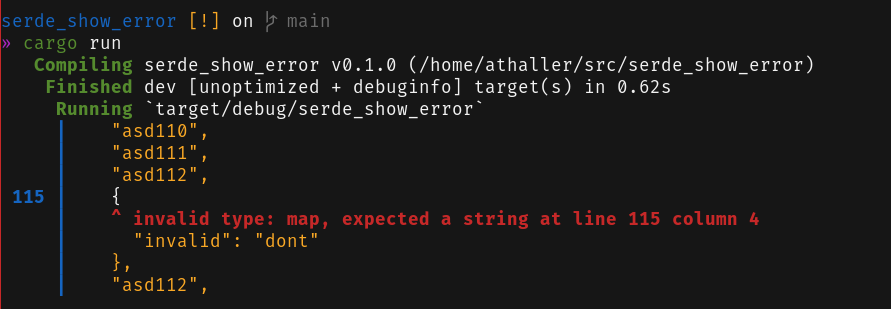
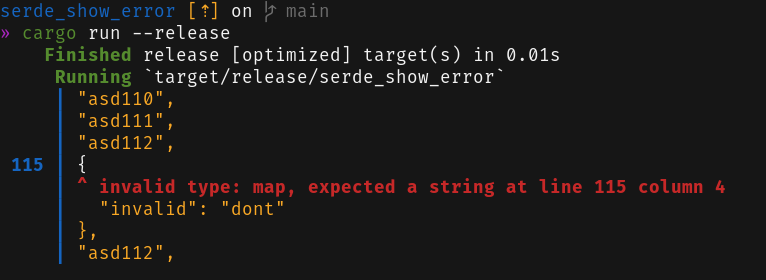
Use prettytable

Changed region(s): [[0.0, 0.0, 0.9608, 0.9429]]

diff --git a/src/main.rs b/src/main.rs
@@ -1,4 +1,10 @@
 use colored::*;
+use prettytable::{
+    cell,
+    format::FormatBuilder,
+    row,
+    Table,
+};
 
 mod config;
 
@@ -23,62 +29,76 @@ fn print_err(json_str: &str, err: serde_json::Error) -> Result<(), anyhow::Error
         return Err(err.into());
     }
 
-    let lines = json_str.lines().collect::<Vec<_>>();
-    let length = lines.len();
-    let fill = number_length(length);
+    // Amount of lines to show before and after the error line
+    let context = 3;
 
-    let skip = usize::saturating_sub(err.line(), 4);
-    let mut after = err.line() + 3;
-    if after > length {
-        after = length
-    }
+    // Skip until we are amount of context lines before the error line (context)
+    // plus the line with the error ( + 1)
+    // Saturating sub if the error is in the first line we can't take more context
+    let skip = usize::saturating_sub(err.line(), context + 1);
 
-    for (index, line) in lines.into_iter().enumerate().skip(skip) {
-        if index == after {
-            break;
-        }
+    // Take lines before and after (context * 2) plus the line with the error ( + 1)
+    let take = context * 2 + 1;
 
-        if index == err.line() - 1 {
-            println!(
-                " {}{: >fill$} {}{}",
-                err.line().to_string().blue().bold(),
-                "",
-                "|".blue().bold(),
-                line,
-                fill = fill - number_length(index)
-            );
+    // To reduce the amount of space text takes we want to remove unneccessary
+    // whitespace in front of the text.
+    // Find the line with the least amount of whitespace in front and use
+    // that to remove the whitespaces later.
+    // We basically want to find the least indented line.
+    // We cant just use trim as that would remove all whitespace and remove all
+    // indentation.
+    let whitespaces = json_str
+        .lines()
+        .skip(skip)
+        .take(take)
+        .map(|line| line.chars().take_while(|s| s.is_whitespace()).count())
+        .min()
+        .unwrap_or_default();
 
-            println!(
-                " {: >fill$} {}{: >column$}{} {}",
-                "",
-                "|".blue().bold(),
-                "",
-                "^".red().bold(),
-                err.to_string().red().bold(),
-                fill = fill,
-                column = err.column()
-            );
+    let mut table = Table::new();
+    // No padding, or other formatting
+    table.set_format(FormatBuilder::new().build());
+
+    let sepperator = " | ".blue().bold();
+
+    for (line, text) in json_str
+        .lines()
+        .into_iter()
+        .enumerate()
+        .skip(skip)
+        .take(take)
+        // Make the index start at 1 makes it nicer to work with
+        // Also remove whitespaces used for formatting
+        .map(|(index, line)| (index + 1, line.chars().skip(whitespaces).collect::<String>()))
+    {
+        if line != err.line() {
+            // Print context lines
+            table.add_row(row!["", sepperator, text.yellow(),]);
         } else {
-            println!(
-                " {: >fill$} {}{}",
+            // Print error line
+            table.add_row(row![
+                format!(" {}", err.line()).to_string().blue().bold(),
+                sepperator,
+                text,
+            ]);
+
+            // Print error information
+            table.add_row(row![
                 "",
-                "|".blue().bold(),
-                line.yellow(),
-                fill = fill
-            );
+                sepperator,
+                format!(
+                    "{: >column$}^ {}",
+                    "",
+                    err,
+                    column = err.column() - whitespaces
+                )
+                .red()
+                .bold(),
+            ]);
         }
     }
+
+    table.printstd();
 
     Ok(())
-}
-
-fn number_length(mut number: usize) -> usize {
-    let mut len = 0;
-
-    while number > 0 {
-        number /= 10;
-        len += 1;
-    }
-
-    len
 }
